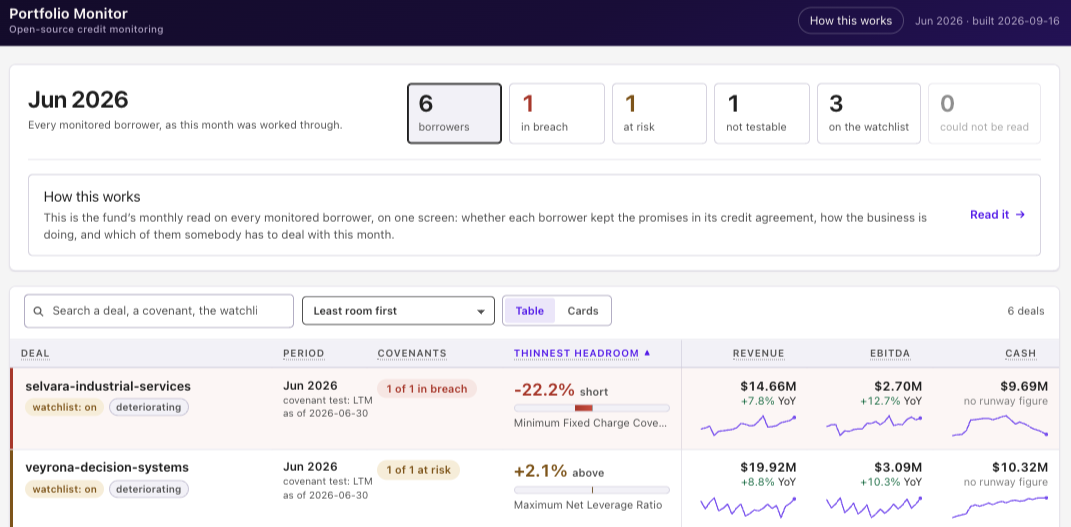
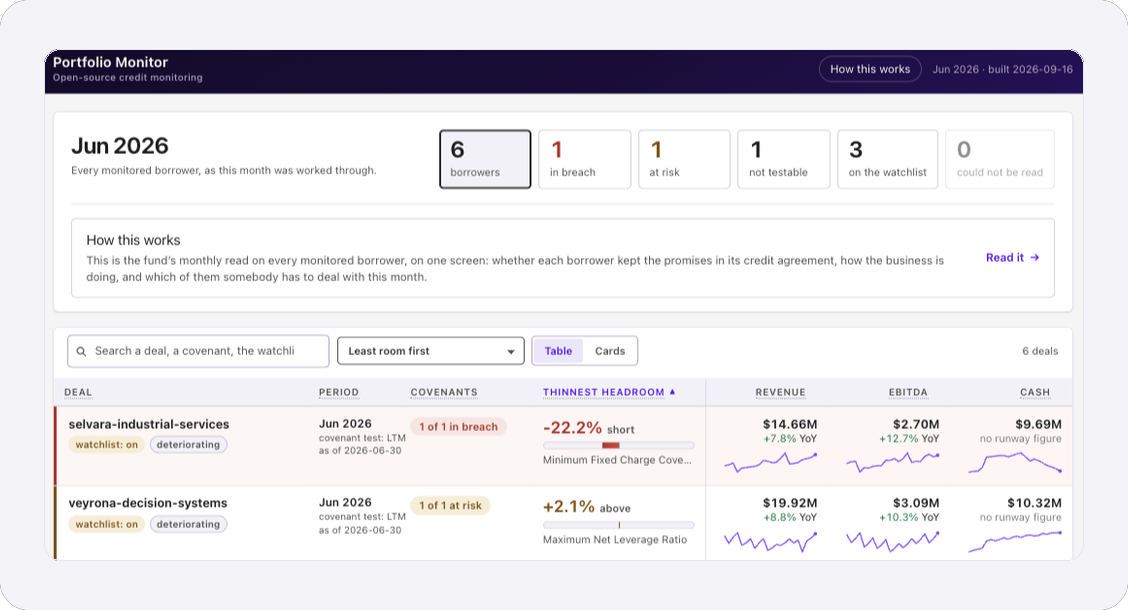
docs: frame the README screenshots to match the SVG illustrations
The raw captures sat next to docs/assets/output-*.svg looking like they
came from a different document: no frame, square corners, and three
slightly different heights because that is how each one happened to be
captured.

Reframes all four the way the SVGs are built -- a #F4F3F8 canvas with
rounded corners holding a rounded card outlined in #E6E5ED -- and pads
every result to one 1128x610 canvas so the README renders them at
identical size. Captures are scaled to a common width and never cropped
or stretched; the height differences are absorbed by the frame.

Adds tools/frame_screenshots.py so the next capture refresh can be framed
the same way. It needs Pillow, kept out of requirements.txt because
regenerating these images is a maintainer chore, not part of using the
plugin; compileall does not import it, so CI is unaffected.

Refs OST-209.

Claude-Session: https://claude.ai/code/session_01Jb5JUVKBk1cUM3s9PomR4o

diff --git a/tools/frame_screenshots.py b/tools/frame_screenshots.py
@@ -1,0 +1,106 @@
+#!/usr/bin/env python3
+"""Frame raw demo screenshots to match the repository's illustration style.
+
+The README mixes hand-drawn SVG illustrations (docs/assets/output-*.svg) with
+captured screenshots of the deployed sample dashboard. Dropping a raw capture
+next to those illustrations reads as a different document: no frame, no
+rounding, and whatever height the capture happened to be.
+
+This reframes each capture the way the SVGs are built -- a #F4F3F8 canvas with
+rounded corners, holding a rounded card outlined in #E6E5ED -- and pads every
+result to one canvas size so the README renders them identically.
+
+Captures are scaled to a common width, never cropped or stretched: the small
+height differences between them are absorbed by the frame, not by the image.
+
+Pillow is required to run this, and is deliberately not in requirements.txt --
+regenerating these images is a maintainer chore, not part of using the plugin.
+
+    python3 -m pip install Pillow
+    python3 tools/frame_screenshots.py <source-dir>
+
+Source files are matched to their framed counterparts in docs/assets/ by name.
+"""
+
+import sys
+from pathlib import Path
+
+from PIL import Image, ImageDraw
+
+ROOT = Path(__file__).resolve().parents[1]
+ASSETS = ROOT / "docs" / "assets"
+
+CANVAS_FILL = (244, 243, 248)  # #F4F3F8, the SVG illustrations' backdrop
+CARD_STROKE = (230, 229, 237)  # #E6E5ED, their card outline
+CARD_WIDTH = 1040
+PADDING = 44
+CANVAS_RADIUS = 28
+CARD_RADIUS = 16
+SUPERSAMPLE = 4  # corners are masked at this scale, then averaged down
+
+
+def rounded_mask(size, radius):
+    """An antialiased mask for a rounded rectangle of the given size."""
+    width, height = size
+    big = Image.new("L", (width * SUPERSAMPLE, height * SUPERSAMPLE), 0)
+    ImageDraw.Draw(big).rounded_rectangle(
+        (0, 0, width * SUPERSAMPLE - 1, height * SUPERSAMPLE - 1),
+        radius=radius * SUPERSAMPLE,
+        fill=255,
+    )
+    return big.resize(size, Image.LANCZOS)
+
+
+def scaled(path):
+    """The capture at CARD_WIDTH, aspect preserved."""
+    image = Image.open(path).convert("RGB")
+    width, height = image.size
+    return image.resize(
+        (CARD_WIDTH, round(height * CARD_WIDTH / width)), Image.LANCZOS
+    )
+
+
+def frame(card, canvas_size):
+    """One capture, centred in the canvas the whole set shares."""
+    canvas = Image.new("RGBA", canvas_size, (0, 0, 0, 0))
+    backdrop = Image.new("RGBA", canvas_size, CANVAS_FILL + (255,))
+    canvas.paste(backdrop, (0, 0), rounded_mask(canvas_size, CANVAS_RADIUS))
+
+    top = (canvas_size[1] - card.height) // 2
+    canvas.paste(card, (PADDING, top), rounded_mask(card.size, CARD_RADIUS))
+
+    # Drawn after the paste so the outline sits on the capture's own edge,
+    # the way the SVG cards are stroked rather than inset.
+    outline = Image.new("RGBA", canvas_size, (0, 0, 0, 0))
+    ImageDraw.Draw(outline).rounded_rectangle(
+        (PADDING, top, PADDING + card.width - 1, top + card.height - 1),
+        radius=CARD_RADIUS,
+        outline=CARD_STROKE + (255,),
+        width=1,
+    )
+    return Image.alpha_composite(canvas, outline)
+
+
+def main(source):
+    sources = sorted(Path(source).glob("screenshot-*.png"))
+    if not sources:
+        raise SystemExit(f"no screenshot-*.png found in {source}")
+
+    cards = {path.name: scaled(path) for path in sources}
+    # One canvas for the whole set, sized to the tallest capture so none is
+    # cropped. Shorter ones simply carry a little more frame.
+    canvas_size = (
+        CARD_WIDTH + PADDING * 2,
+        max(card.height for card in cards.values()) + PADDING * 2,
+    )
+
+    for name, card in cards.items():
+        destination = ASSETS / name
+        frame(card, canvas_size).save(destination, optimize=True)
+        print(f"{destination.relative_to(ROOT)}  {canvas_size[0]}x{canvas_size[1]}")
+
+
+if __name__ == "__main__":
+    if len(sys.argv) != 2:
+        raise SystemExit(__doc__)
+    main(sys.argv[1])
